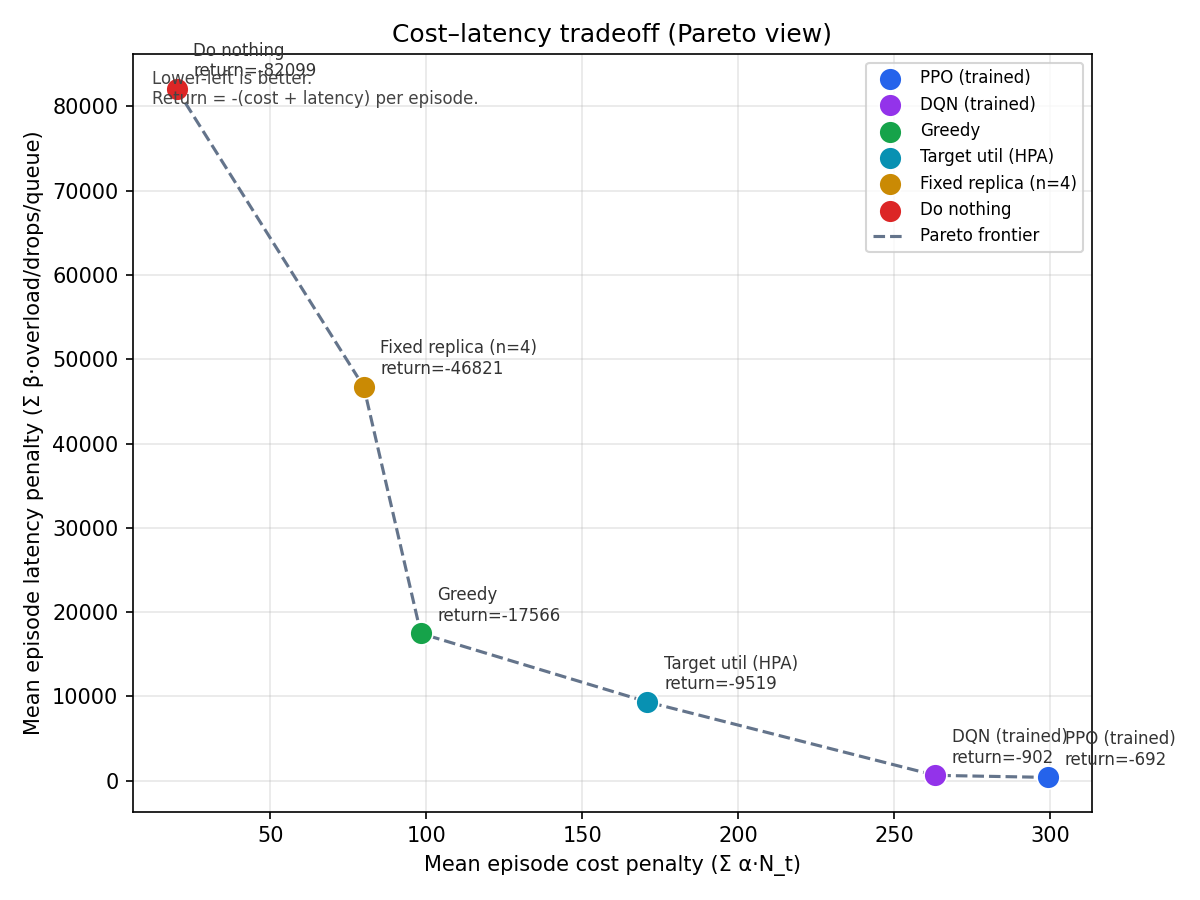
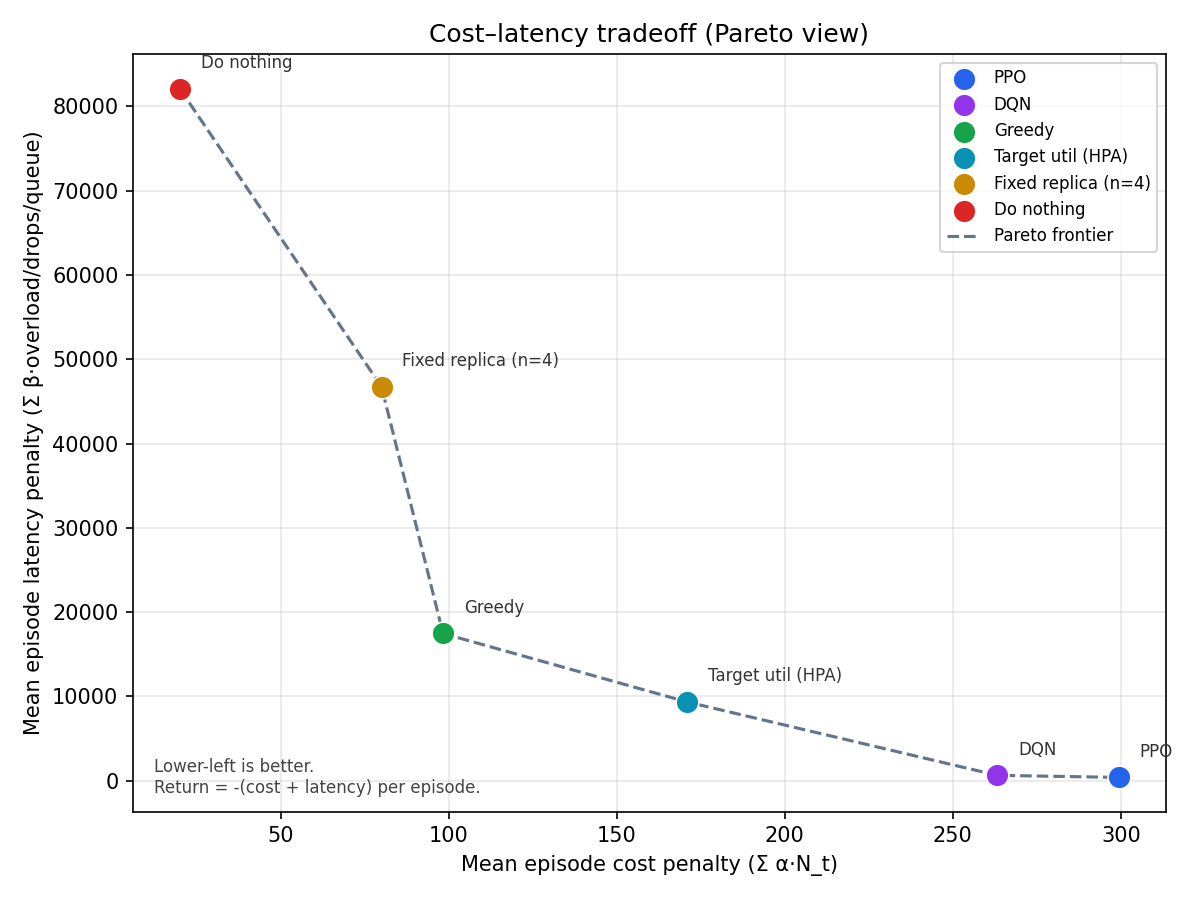
Add GitHub Pages deploy workflow for the Astro blog.
The workflow was never committed, so Actions never ran and the site 404'd.
Include public/.nojekyll so Pages serves Astro _astro assets, and sync the
latest Pareto figure into website/public for the build.

diff --git a/website/README.md b/website/README.md
@@ -39,8 +39,20 @@ npm run preview
 - React interactives: `src/components/react/`
 - Entry page: `src/pages/index.astro`
 
-## Deploy
+## Deploy (GitHub Pages)
 
-Pushes to `main` that touch `website/` or `results/` trigger [`.github/workflows/deploy-website.yml`](../.github/workflows/deploy-website.yml).
+**Live URL:** [https://dcunhrya.github.io/rl-inference-autoscaler/](https://dcunhrya.github.io/rl-inference-autoscaler/)
 
-One-time: **Settings → Pages → Source: GitHub Actions**.
+1. **One-time (repo admin):** GitHub → **Settings → Pages → Build and deployment → Source: GitHub Actions**.
+2. Pushes to `main` that touch `website/`, `results/`, or the workflow file run [`.github/workflows/deploy-website.yml`](../.github/workflows/deploy-website.yml).
+3. Or trigger manually: **Actions → Deploy website to GitHub Pages → Run workflow**.
+
+The workflow sets `SITE_URL` and `BASE_PATH=/rl-inference-autoscaler/` for Astro. `public/.nojekyll` ensures GitHub Pages serves Astro’s `_astro/` assets (Jekyll would ignore them otherwise).
+
+Local production check:
+
+```bash
+cd website
+SITE_URL=https://dcunhrya.github.io BASE_PATH=/rl-inference-autoscaler/ npm run build
+npm run preview -- --base /rl-inference-autoscaler/
+```